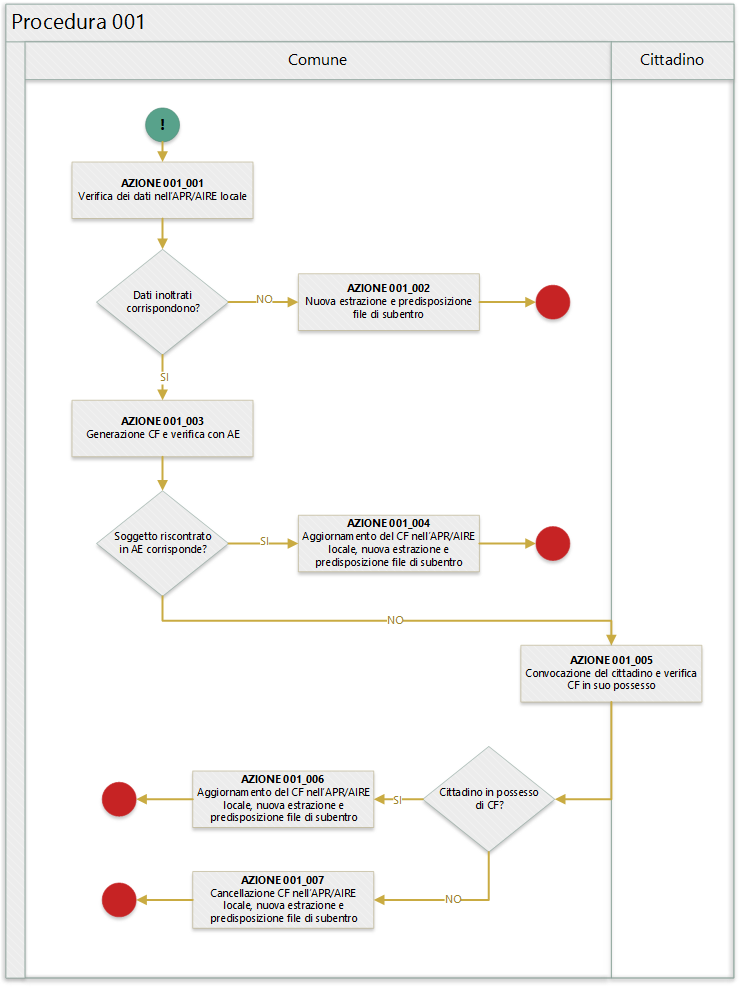
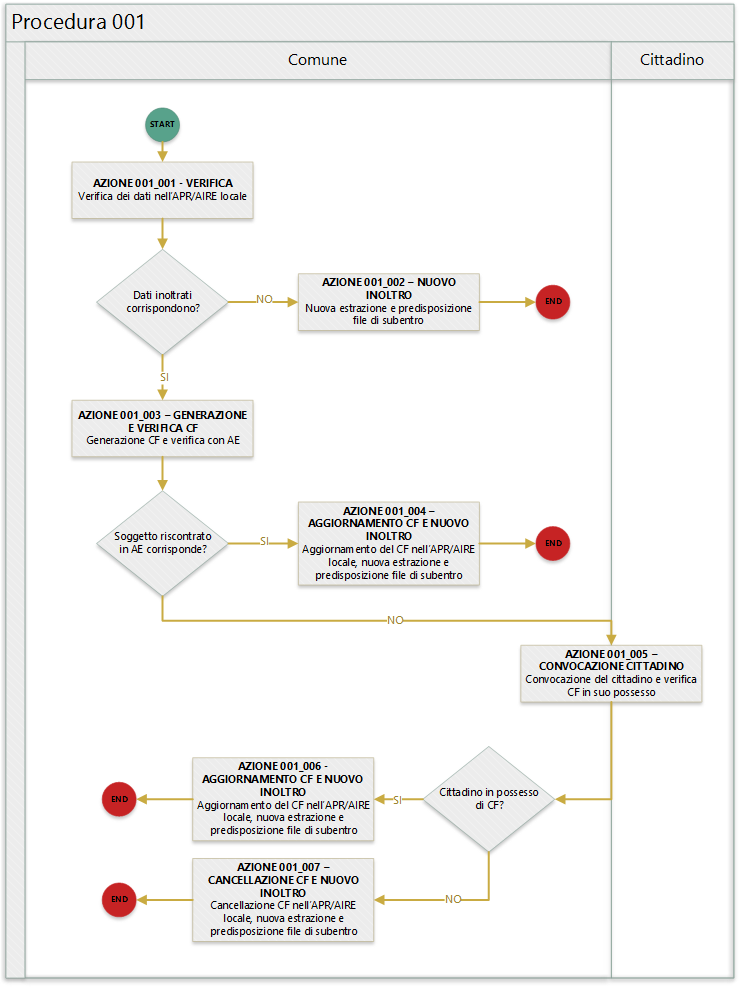
Aggiornato naming procedura 001

diff --git a/procedure/PROCEDURA_001.md b/procedure/PROCEDURA_001.md
@@ -1,6 +1,6 @@
 >**QUESTO DOCUMENTO É UNA BOZZA DI LAVORO**
 
-# Procedura 001
+# Procedura 001 - CODICE FISCALE NON CORRETTO O ERRATO
 
 > ritorna [*README*](../README.md) o [*Tabella anomalie ANPR*](../TAB01_ANOMALIE_ANPR.md)
 
@@ -23,25 +23,25 @@ La seguente figura sintetizza la procedura per la gestione delle anomalie.
 ## Descrizione azione
 In quanto segue si riporta una descrizione delle azioni previsti per la presente procedura.
 
-### AZIONE 001_001
+### AZIONE 001_001 - VERIFICA
 L'ufficiale d'anagrafe verifica i dati anagrafici associati al soggetto interessato dall'errore sul sistema gestionale del Comune (APR o AIRE locale) con l'obiettivo di constatare che i dati inoltrati al sistema ANPR coincidono con quelli registrati.
 
-### AZIONE 001_002
+### AZIONE 001_002 - NUOVO INOLTRO
 Poichè i dati inoltrati al sistema ANPR non coincidono con quelli presenti nel sistema gestionale del Comune (probabilemente per problemi nella procedura di estrazione e predisposizione dei file di subentro utilizzata) è necessario provvedere nuovamente all'estrazione dei dati e alla predisposizione dei file di subentro al fine di provvedere ad eseguire l'inoltro al sistema ANPR.
 
-### AZIONE 001_003
+### AZIONE 001_003 - GENERAZIONE E VERIFICA CF
 L'ufficiale di anagrafe genera nuovamente il *codice fiscale* del soggetto rispettando le [regole di codifica](http://www.agenziaentrate.gov.it/wps/content/Nsilib/Nsi/Home/CosaDeviFare/Richiedere/Codice+fiscale+e+tessera+sanitaria/Richiesta+TS_CF/SchedaI/Informazioni+codificazione+pf/) è verifica, tramite il sistema *SIATEL v2.0 - PuntoFisco* reso disponibile dall'Agenzia delle entrate, l'attribuzione dello stesso da parte dell'Agenzia delle entrate.
 
-### AZIONE 001_004
+### AZIONE 001_004 - AGGIORNAMENTO CF E NUOVO INOLTRO
 L'ufficiale di anagrafe, a valle del positivo riscontro con l'Agenzia delle entrate, provvede ad aggiornare il *codice fiscale* sul sistema gestionale del Comune per dare seguito ad una nuova estrazione dei dati e alla predisposizione dei file di subentro al fine di provvedere ad eseguire l'inoltro al sistema ANPR.
 
-### AZIONE 001_005
+### AZIONE 001_005 - CONVOCAZIONE CITTADINO
 L'ufficiale di anagrafe convoca il cittadino per verificare se lo stesso è in possesso di un *codice fiscale* correttamente generato dall'Agenzia delle entrate.
 
-### AZIONE 001_006
+### AZIONE 001_006 - AGGIORNAMENTO CF E NUOVO INOLTRO
 L'ufficiale di anagrafe, a valle del positivo riscontro con il cittadino, provvede ad aggiornare il *codice fiscale* sul sistema gestionale del Comune per dare seguito ad una nuova estrazione dei dati e alla predisposizione dei file di subentro al fine di provvedere ad eseguire l'inoltro al sistema ANPR.
 
-### AZIONE 001_007
+### AZIONE 001_007 - CANCELLAZIONE CF E NUOVO INOLTRO
 L'ufficiale di anagrafe, non avendo la possibilità di riscontrate il *codice fiscale* provvede alla cancellazione dei dati sul sistema gestionale del Comune per dare seguito ad una nuova estrazione dei dati e alla predisposizione dei file di subentro al fine di provvedere ad eseguire l'inoltro al sistema ANPR
 
 ## Riferimenti di interesse

diff --git a/TAB01_ANOMALIE_ANPR.md b/TAB01_ANOMALIE_ANPR.md
@@ -7,7 +7,7 @@
 
 |codice anomalia | messaggio di errore | severità | procedura suggerita|
 | ------------- | ------------- | ------------- | ------------- |
-|	EA001	|	Codice fiscale formalmente non corretto	| warning da rimuovere prima del subentro | [Procedura 001](procedure/PROCEDURA_001.md) |
+|	EA001	|	Codice fiscale formalmente non corretto	| warning da rimuovere prima del subentro | [Procedura 001 - Codice Fiscale non corretto o errato](procedure/PROCEDURA_001.md) |
 |	EA002	|	Soggetto presente in AT con  DA uguali a quelli del comune ma CF del comune assente	| warning non bloccante | [Procedura 002](procedure/PROCEDURA_002.md) |
 |	EA003	|	Soggetto presente in AT con  DA uguali a quelli del comune ma CF diverso	| warning non bloccante | [Procedura 002](procedure/PROCEDURA_002.md) |
 |	EA029	|	Codice fiscale calcolato dai  DA del comune non presente in AT	| warning non bloccante | [Procedura 003](procedure/PROCEDURA_003.md) |
@@ -18,7 +18,7 @@
 |	EA040	|	Soggetto registrato piu' volte  sia con il CF collegato che con l'ultimo	| warning non bloccante | [Procedura 005](procedure/PROCEDURA_005.md) |
 |	EA042	|	Soggetto con sesso non coincidente  con quello presente nel CF	| warning da rimuovere prima del subentro | [Procedura 004](procedure/PROCEDURA_004.md) |
 |	EA047	|	Soggetto presente  nell'archivio AIRE e nel MAE dei cittadini non residenti (IRREPERIBILI, RIMPATRIATI, DECEDUTI,  TRASFERITI)	| warning non bloccante | NON APPLICATA: in attesa di collegamento con MAE |
-|	EA048	|	Codice fiscale formalmente errato	| warning da rimuovere prima del subentro | [Procedura 001](procedure/PROCEDURA_001.md) |
+|	EA048	|	Codice fiscale formalmente errato	| warning da rimuovere prima del subentro | [Procedura 001 - Codice Fiscale non corretto o errato](procedure/PROCEDURA_001.md) |
 |	EC001	|	Codice stato civile [@] inesistente sulla tabella di riferimento [Codice-Tabella]	| warning da rimuovere prima del subentro | |
 |	EC002	|	Codice relazione di parentela [@] inesistente sulla tabella di riferimento [Codice-Tabella]	| warning da rimuovere prima del subentro | |
 |	EC003	|	Codice legame scheda convivenza [@] inesistente sulla tabella di riferimento [Codice-Tabella]	| warning da rimuovere prima del subentro | |
